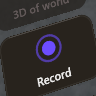
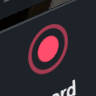
VR1112 G-camera: observe Record timing in the actual compositor color channels

diff --git a/crates/orbiters-desktop/src/overlay/orbit/camera_track.rs b/crates/orbiters-desktop/src/overlay/orbit/camera_track.rs
@@ -908,7 +908,8 @@ pub fn record_near(pixels:&[u8],width:usize,height:usize,stride:usize,offset:[f3
     for y in 0..h {for x in 0..w {
         let Some(p)=pixels.get((y+y0)*stride+(x+x0)*4..(y+y0)*stride+(x+x0)*4+3) else{continue;};
         let (r,g,b)=(p[0] as u32,p[1] as u32,p[2] as u32);
-        mask[y*w+x]=b>100 && b*10>r*11 && r*10>g*13 && b*10>g*15;
+        // Record is pink/red in the actual RGBA compositor readback.
+        mask[y*w+x]=r>100 && r*10>b*11 && b*10>g*13 && r*10>g*15;
     }}
     let mut best=None;
     for i in 0..mask.len() {if !mask[i]{continue;}let mut stack=vec![i];mask[i]=false;let(mut count,mut sx,mut sy)=(0,0.,0.);let(mut xmin,mut xmax,mut ymin,mut ymax)=(w,0,h,0);

diff --git a/crates/orbiters-desktop/src/overlay/orbit/testdata/sandbox-record-ring.md b/crates/orbiters-desktop/src/overlay/orbit/testdata/sandbox-record-ring.md
@@ -1,1 +1,1 @@
-Native-resolution 96x96 crop from real SteamVR + VRChat strict-private sandbox, accept-a2/final2-right-acquired-000-left.png, 2026-11-12. Observed purple Record ring centroid at crop (48,48), within rounding. No synthetic rendering. Used only to identify our own composited overlay timing; never to identify a camera.
+Native-resolution 96x96 crop from the actual RGBA EyeReader readback camera-reader.png in sandbox run accept-a6, 2026-11-12. The Record ring is pink/red. Earlier C++ probe PNGs silently swapped red/blue because WIC changed its requested pixel format; the new native PNG self-test catches that. Pixel geometry in historical captures is unchanged. This fixture is a real compositor readback, not a render.
